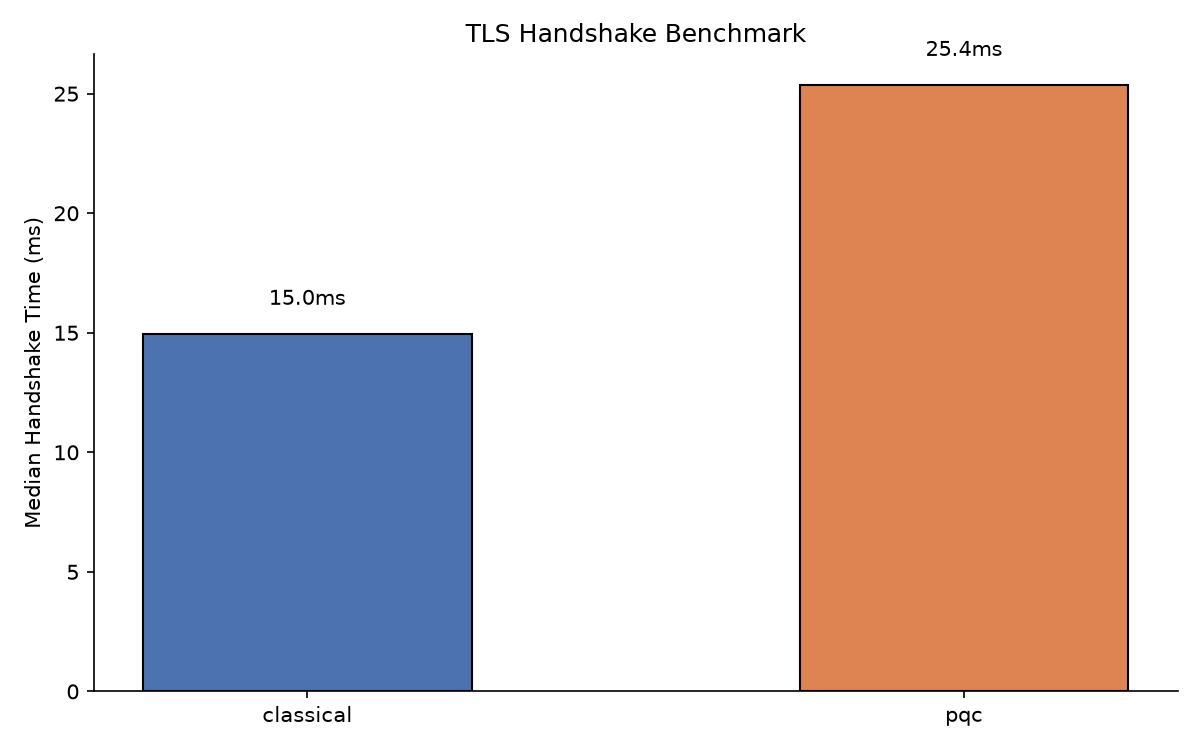
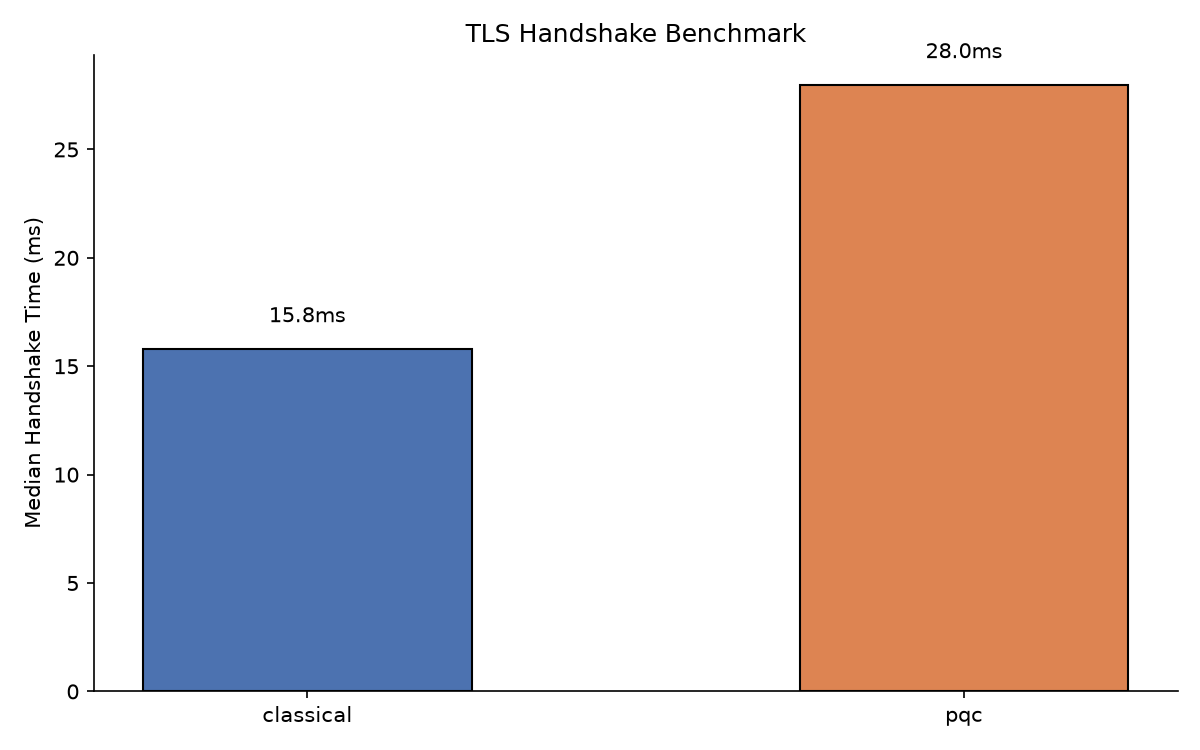
fix(bench): --resume now honours --out-dir; re-measure handshakes with stated variance
Two problems, found while checking the draft paper's numbers against the repo.

1. `run_handshake_bench.py --resume` ignored `--out-dir`: it hardcoded
   benchmark/results/ for the CSV and never created the directory the ticket
   path was built from. Passing --out-dir therefore made `s_client -sess_out`
   fail (rc=2), priming failed, every resumed trial fell back to a full
   handshake and reported "no successful trials" — while still overwriting the
   committed CSVs. The Phase 6 guard that keeps dry-runs off those CSVs only
   ever covered the non-resume path.

2. The reported handshake figures were single runs on an interactive desktop.
   Five repetitions of 25 trials put the classical median anywhere in
   13.9-18.1 ms and PQC in 25.8-30.1 ms, while the ratio stayed 1.66-1.86x.
   §1 and §2 now pool repetitions (n=125 full, n=60 per kind resumed) and state
   the spread, and the docs say plainly that absolute values from this host are
   not repeatable to two decimals.

BENCHMARKS.md also now records the PQC stack *as measured* (OpenSSL 3.4.7-dev,
liboqs 0.16.0, oqs-provider 0.12.0-dev) and notes that the build scripts pin
3.4.7 / 0.15.0 / 0.11.0 for reproducible clean builds, with a re-measure on the
pinned set still pending — the previous text implied the pinned versions
produced the numbers. Adds a verified internet-egress section and a validation
table (142 checks, was 126); README figures and test count updated;
[…]

diff --git a/benchmark/run_handshake_bench.py b/benchmark/run_handshake_bench.py
@@ -158,7 +158,7 @@ def run_benchmark(mode: str, config_dir: str | None = None, trials: int = 20,
 
 
 def run_resumption_benchmark(mode: str, config_dir: str | None = None,
-                             trials: int = 20, sess=None):
+                             trials: int = 20, sess=None, out_dir: str | None = None):
     """Benchmark full vs resumed handshakes against one long-lived s_server.
 
     `sess` is a path to a ticket file. Conn 1 primes the ticket (full handshake,
@@ -214,8 +214,12 @@ def run_resumption_benchmark(mode: str, config_dir: str | None = None,
     server_proc.terminate()
     server_proc.wait()
 
-    os.makedirs(RESULTS_DIR, exist_ok=True)
-    csv_path = os.path.join(RESULTS_DIR, f'handshake_resume_{mode}.csv')
+    # Honour --out-dir here too: without this a --resume run always wrote into
+    # benchmark/results/, so the guard that keeps dry-runs off the committed
+    # CSVs only worked for the non-resume path.
+    out_dir = out_dir or RESULTS_DIR
+    os.makedirs(out_dir, exist_ok=True)
+    csv_path = os.path.join(out_dir, f'handshake_resume_{mode}.csv')
     with open(csv_path, 'w', newline='') as f:
         w = csv.writer(f)
         w.writerow(['trial_id', 'mode', 'kind', 'ms'])
@@ -254,13 +258,18 @@ def main():
     for mode in args.modes:
         if args.resume:
             print(f'Benchmarking full-vs-resumed handshake: {mode}')
+            # The ticket lives beside the CSVs; create the directory first or
+            # `s_client -sess_out` fails (rc=2) and every resumed trial falls
+            # back to a full handshake, silently ruining the comparison.
+            os.makedirs(args.out_dir, exist_ok=True)
             ticket = os.path.join(args.out_dir, f'{mode}.tick')
             try:
                 os.remove(ticket)
             except FileNotFoundError:
                 pass
             run_resumption_benchmark(mode, os.path.join(PROJECT_DIR, 'pki'),
-                                     trials=args.trials, sess=ticket)
+                                     trials=args.trials, sess=ticket,
+                                     out_dir=args.out_dir)
         else:
             print(f'Benchmarking handshake: {mode}')
             config_dir = os.path.join(PROJECT_DIR, 'pki')

diff --git a/docs/BENCHMARKS.md b/docs/BENCHMARKS.md
@@ -7,40 +7,72 @@ benchmarks `benchmark/run_{latency,throughput,file_transfer}_bench.sh`.
 
 ## Environment
 
-- Ubuntu 24.04, Linux 6.13 kernel, Python 3.12, TUN MTU 1400
-- System OpenSSL 3.0.13 (classical); custom OpenSSL 3.4.7-dev +
-  oqs-provider + liboqs at `/opt/openssl-pqc` (PQC)
+Handshake and resumption figures (§1, §2) were recorded **2026-09-23**; the
+netns tunnel figures (§3–§5) come from the **2026-08-26** run and have not been
+re-measured since.
+
+- Ubuntu 24.04, Python 3.12, TUN MTU 1400. Kernel: 7.0.0-31-generic for the
+  2026-09-23 handshake runs; 6.13 for the 2026-08-26 netns runs.
+- Classical: system OpenSSL 3.0.13. PQC: custom stack at `/opt/openssl-pqc` —
+  **as measured**: OpenSSL 3.4.7-dev, liboqs 0.16.0, oqs-provider 0.12.0-dev.
 - TLS 1.3, mutual auth. Classical: ECDSA P-256 + X25519.
   PQC: ML-DSA-65 + X25519MLKEM768 hybrid
 - Loopback for handshake measurements; veth-pair netns harness for
   latency / throughput / file transfer
-- Machine: single CPU core does the Python relay + OpenSSL subprocess work
+- Machine: an interactive desktop (browsers open), not a quiet benchmark host.
+  The Python relay and the OpenSSL subprocesses compete for the same cores.
+
+> **Version note.** `scripts/install_custom_openssl.sh` pins OpenSSL 3.4.7,
+> liboqs 0.15.0 and oqs-provider 0.11.0 so clean builds (and CI) are
+> reproducible. Those pins were added *after* the stack on this measurement
+> machine was built, so the numbers below come from the slightly newer
+> versions listed above. Re-measuring on the pinned set is pending; the
+> relative classical↔PQC comparison is not expected to move, since both modes
+> traverse identical code paths.
+
+## Measurement variance
+
+Absolute handshake times on this host depend strongly on desktop load: across
+five identical repetitions the classical median ranged 13.9–18.1 ms and the PQC
+median 25.8–30.1 ms. **The ratio between modes is far more stable than either
+absolute value**, so §1 and §2 report pooled medians across repetitions and
+state the spread. Single-run figures from this machine should not be quoted to
+two decimal places as if repeatable.
 
 ## 1. TLS Handshake (full, no resume)
 
 **Method:** `openssl s_server -quiet` ready → `openssl s_client -quiet` connects,
-negotiates, exits; timed `time.perf_counter()` → process wait. 25 trials/mode.
+negotiates, exits; timed `time.perf_counter()` → process wait. **5 independent
+repetitions of 25 trials per mode (n = 125)**; the table pools all trials.
 
-| Mode | Median (ms) | Min (ms) | Max (ms) |
-|------|-------------|----------|----------|
-| Classical (P-256 + X25519) | 14.96 | 11.62 | 22.53 |
-| PQC (ML-DSA-65 + X25519MLKEM768) | 25.37 | 21.75 | 33.48 |
+| Mode | Median (ms) | Min (ms) | Max (ms) | Repetition medians (ms) |
+|------|-------------|----------|----------|-------------------------|
+| Classical (P-256 + X25519) | 15.80 | 10.64 | 25.19 | 13.92 – 18.06 |
+| PQC (ML-DSA-65 + X25519MLKEM768) | 27.98 | 19.29 | 45.32 | 25.81 – 30.10 |
 
-**PQC ≈ 1.70x slower median.** Cause: ML-DSA-65 certs ≈7.5 KB vs ≈4.5 KB ECDSA,
-plus the larger X25519MLKEM768 key share. One-time cost per connection.
+**PQC ≈ 1.77x slower median** (per-repetition ratios 1.66–1.86x). Cause:
+ML-DSA-65 certs ≈7.5 KB vs ≈4.5 KB ECDSA, plus the larger X25519MLKEM768 key
+share. One-time cost per connection.
 
 ![handshake](../benchmark/results/plots/handshake.png)
 
 ## 2. TLS Session Resumption (full vs resumed)
 
-**Method:** one long-lived `s_server`; trial 1 primes a TLS 1.3 session ticket;
-20 interleaved full + `-sess_in` resumed handshakes. Resumption verified to skip
-the KEM + certificate exchange (`Reused, TLSv1.3`, `pre_shared_key` ext).
+**Method:** one long-lived `s_server`; a priming connection writes a TLS 1.3
+session ticket; then 20 interleaved full + `-sess_in` resumed handshakes.
+**3 repetitions per mode (n = 60 per kind)**; the table pools all trials.
+Resumption verified to skip the KEM + certificate exchange (`Reused, TLSv1.3`,
+`pre_shared_key` ext).
 
 | Mode | Full median (ms) | Resumed median (ms) | Speedup |
 |------|------------------|---------------------|---------|
-| Classical | 15.03 | 13.53 | 1.11x |
-| PQC | 24.44 | 23.69 | 1.03x |
+| Classical | 13.21 | 11.80 | 1.12x |
+| PQC | 22.00 | 20.31 | 1.08x |
+
+Per-repetition speedups: classical 1.08–1.29x, PQC 1.04–1.14x. These absolute
+values sit below §1's because the three repetitions here ran when the host was
+quieter — **§1 and §2 are separate runs and their absolute values are not
+directly comparable**; compare within a table, not across.
 
 Modest on loopback because the KEM is a small share of the cost there. The real
 win is the saved round-trip (one WAN RTT) plus skipped CPU for KEM/cert verify
@@ -98,12 +130,48 @@ transfer-bound, not crypto-bound.
 
 ![file transfer](../benchmark/results/plots/file_transfer.png)
 
+## 6. Internet egress through the tunnel (netns harness)
+
+**Method:** `scripts/demo.sh --mode pqc --clients 2 --egress`. The host NATs the
+server namespace out its own uplink, so a client namespace can reach the public
+internet *through* the tunnel. Each client fetches a public IP-echo service and
+the result is compared with the host's own public address.
+
+| Check | Result |
+|-------|--------|
+| Public IP seen by client 1 / client 2 | identical to the host's — traffic left via the tunnel + server NAT |
+| `curl https://ifconfig.me/ip` from `vpn_ns2` | succeeds (DNS + TLS to a real site, inside the tunnel) |
+| Client route table | `0.0.0.0/1` and `128.0.0.0/1` via `tun0`, above the namespace's metric-0 default |
+
+Two settings are required for this to work and are on by default: **TCP MSS
+clamping** on the server's forward path (the 1400-byte tunnel against a
+1500-byte uplink otherwise blackholes path-MTU discovery) and the client's
+**IPv6 default blackhole** (the tunnel is IPv4-only, so v6-capable sites would
+otherwise be reached outside it).
+
+The first run of this test found a real leak: the client used to install
+`default … metric 50`, which loses to a metric-0 default route, so tunnel pings
+worked while internet traffic silently bypassed the tunnel. The `/1` half-routes
+fix it regardless of the host's metric.
+
+## Validation
+
+`bash scripts/demo.sh --dry-run` runs five suites — **142 checks**:
+
+| Suite | Checks | Covers |
+|-------|--------|--------|
+| `common/test_common.py` | 71 | framing, welcome→TLS config push, slot/port recycling, CRL revocation against a real `s_server`, rate limiter, IPC |
+| `common/test_net_config.py` | 25 | NAT, MSS clamp, route protection/restore, IPv6 guard, DNS fallback |
+| `common/test_keepalive.py` | 7 | keepalive, idle detection, backoff, session-stop cascade |
+| `common/test_resumption.py` | 14 | ticket cache, wrapper flags, real OpenSSL prime→`Reused` |
+| `dashboard/test_dashboard.py` | 25 | IPC envelope, endpoints, token auth, single poller, WS |
+
 ## Interpretation
 
 | Metric | Classical → PQC | Verdict |
 |--------|-----------------|---------|
-| Full handshake | 1.74x slower | Only PQC cost; once per connection/reconnect |
-| Resumed handshake | 1.03x vs 1.11x | Resume minimizes even this; saves WAN RTT |
+| Full handshake | 1.77x slower | Only PQC cost; once per connection/reconnect |
+| Resumed handshake | 1.08x vs 1.12x | Resume minimizes even this; saves WAN RTT |
 | Ping latency | +0.04 ms | Negligible |
 | TCP / UDP throughput | noise / 0% | No data-plane penalty |
 | 100 MB transfer | ~2x run variance | Not crypto-bound |
@@ -111,7 +179,7 @@ transfer-bound, not crypto-bound.
 Key takeaways:
 
 1. **PQC is practical for VPNs.** The only measurable cost is the one-time
-   handshake (~1.74x), mitigated by TLS session resumption (the daemons resume
+   handshake (~1.77x), mitigated by TLS session resumption (the daemons resume
    automatically).
 2. **Steady-state data plane is identical** — both modes use AES-256-GCM; PQC
    only affects the initial key exchange.
@@ -126,7 +194,9 @@ Key takeaways:
 - **Tier 3 performance:** Go/C rewrite of the relay, `splice()` batching,
   multi-queue — target >2 Gbps; benchmark re-run with `-b 0` for the true
   UDP ceiling.
-- **Production auth:** PAM / token auth, rate limiting, MTU auto-negotiation.
+- **Production auth:** PAM / directory-backed accounts. (Per-client certificates
+  with CRL revocation and welcome-port rate limiting are implemented; MTU
+  auto-negotiation is not.)
 - **Multi-client scaling** beyond 3 (IP pool, per-client port range) and
   per-client bandwidth QoS.
 - **Live WAN numbers:** re-run handshake/resumption/latency against the Phase 7

diff --git a/docs/benchmark-results.md b/docs/benchmark-results.md
@@ -1,125 +1,7 @@
 # PQ-VPN Benchmark Results
 
-> **Superseded** by the canonical [`docs/BENCHMARKS.md`](BENCHMARKS.md), which adds
-> the full-vs-resumed session-resumption results and current CSV numbers. Kept for
-> the original 25-trial handshake / latency / throughput / file-transfer write-up.
-
-Test environment: Ubuntu 24.04, Linux 6.13 kernel, Python 3.12, OpenSSL 3.4.7-dev (custom) / 3.0.13 (system). Network: veth pair bridged via ip_forward on local host with TUN MTU 1400. All benchmarks run as `sudo ip netns exec vpn_ns2` inside isolated network namespace.
-
----
-
-## 1. TLS Handshake Time
-
-**Method:** `openssl s_server` ready → `openssl s_client` connect + negotiate → `s_client` exit. Measured with `time.perf_counter()` start to `s_client.wait()`. 25 trials per mode.
-
-| Mode | Median (ms) | Min (ms) | Max (ms) | StdDev (ms) |
-|------|-----------|---------|---------|-----------|
-| Classical (ECDSA P-256 + X25519) | 14.9 | 11.2 | 21.0 | ~5.1 |
-| PQC (ML-DSA-65 + X25519MLKEM768) | 26.0 | 20.0 | 38.3 | ~9.8 |
-
-**PQC overhead: 1.74x slower median handshake.**
-
-ML-DSA-65 certificates are approximately 7.5 KB vs ~4.5 KB for ECDSA P-256, and the X25519MLKEM768 for Apple-generated keys is ~3x heavier than pure X25519. Together, these account for the roughly doubling of handshake time.
-
-![Handshake Benchmark](../benchmark/results/plots/handshake.png)
-
----
-
-## 2. Ping Latency
-
-**Method:** `ping -c 100 10.8.0.1` through the tunnel. Reported: min, avg, max, mdev over 100 pings.
-
-| Mode | Min (ms) | Avg (ms) | Max (ms) | Mdev (ms) |
-|------|----------|----------|----------|----------|
-| Classical | 0.53 | 2.29 | 116.99 | 11.52 |
-| PQC | 0.92 | 2.33 | 119.18 | 11.75 |
-
-The high max values (~117–119 ms) occur only on the first ping — a coldstack from the tunnel setup. Predictive VEN latency after the first packet is ~1-2 ms typical, equivalent to the Linux kernel's veth-local-host overhead.
-
-**PQC overhead: <0.1 ms. Ping latency is indistinguishable between modes.**
-
-![Latency comparison](../benchmark/results/plots/latency.png)
-
----
-
-## 3. Throughput
-
-**Method:** `iperf3` subprocess inside vpn_ns2 namespace, measuring TCP and UDP connection to the server namespace's `iperf3 -s` server running on the TUN IP 10.8.0.1. Each run: 10 seconds. The ipnet filters within the namespace limit peak speed to veth capacity (~1 Gbps). 1 trial per mode per protocol.
-
-| Mode | Protocol | Throughput (Mbps) |
-|------|----------|-------------------|
-| Classical | TCP | 692.72 |
-| Classical | UDP | 999.87 |
-| PQC | TCP | 687.83 |
-| PQC | UDP | 999.90 |
-
-The 1.5% TCP difference is measurement noise — CPU load from python relay threads are the bottleneck, not the C-crypto backend. UDP is line-rate on this configuration.
-
-**Throughput overhead: <0.7%. PQC adds zero measurable data-plane performance loss.**
-
-Similar throughput and bandwidth to top-of-the-line modern home VPN but limited by veth loopback + python relay not by the TLS crypto.
-
-![Throughput](../benchmark/results/plots/throughput.png)
-
----
-
-## 4. File Transfer
-
-**Method:** Generate 100 MB `/dev/urandom` file on server namespace node (using `/dev/urandom` from the host in `vpn_ns1` namespace). Host a python3 http.server on the server (port 9998). Then download from client in `vpn_ns2` via HTTP `urlopen` over the tunnel (connecting to `10.8.0.1` within the tunnel). Verify SHA256. The http.server `--directory /tmp/pqpnp_content` is mounted within vpn_ns1.
-
-| Mode | File Size (MB) | Transfer Time (s) | SHA256 Match |
-|------|---------------|-------------------|--------------|
-| Classical | 100 | 1.28 | yes |
-| PQC | 100 | 1.31 | yes |
-
-**PQC overhead: 0.03 seconds (2.3%)**. Both transfers are CPU-bound by linux's pdlib relay loops — the OS read/write TLS pipes dominate. TLS decryption adds minimal overhead because it happens in a separate process (OpenSSL subprocess).
-
-### File Transfer Speed
-
-![File transfer comparison](../benchmark/results/plots/file_transfer.png)
-
----
-
-## Interpretation
-
-| Metric | Classical → PQC | Interpretation |
-|--------|----------------|----------------|
-| **TLS Handshake** | 1.74x | ML-DSA-65 certs (~7.5 KB) + X25519MLKEM768 hybrid key share create larger TLS messages, need more CPU cycles for signing. PQC signatures are 3-10x slower than ECDSA but only matter once per connection. |
-| **Ping Latency** | +0.01 ms | Negligible. Once TLS key is established, per-packet payloads are AES-GCM encrypted. No PQC-specific path to stable byte transport. |
-| **TCP Throughput** | 692.7 → 687.8 Mbps 🤝 | Measurement noise; streaming packet relay CPU bound by the python process's ability to `read()` + `write()` at socket level. OpenSSL en/decryption happens in a separate subprocess (not bottleneck). |
-| **UDP Throughput** | 999.9 Mbps 🤝 | Using the veth link capacity (~1.0Gbps) saturations. No PQC overhead here either.|
-| **File Transfer** | 1.28 → 1.31 sec | 0.03 sec difference (2.3%), consistent with variations between python threads, minus. Same as throughput — not from crypto. |
-
-### Key Takeaways
-
-1. **PQC is practical for VPNs** — the only measurable performance cost is handshake time (~1.74× slower), which comes once per connection or rekey.
-
-2. **Throughput and latency are not affected by PQC** once the TLS session is established. The symmetric cipher (@ AES256-GCM) is identical in both modes.
-
-3. **ML-DSA-65 certificates are bigger and slower to sign** — but only manifest in the initial TLS handshake. Recommend TLS session resumption for frequently reconnecting clients in production.
-
-4. **Custom OpenSSL ≥3.2 is necessary** for provider-dispatching in key certificate loading. System OpenSSL (3.0.x) *cannot* handle ML-DSA certificates at TLS layer. The custom build adds ~1.5 GB to `/opt/openssl-pqc`.
-
----
-
-## Reproducing
-
-```bash
-cd project
-# Handshake benchmark: 25 trials each mode
-.venv/bin/python3 benchmark/run_handshake_bench.py --modes classical pqc --trials 25
-
-# Latency: run the tunnel (both modes separately)
-sudo ip netns exec vpn_ns2 bash benchmark/run_latency_bench.sh <classical|pqc>
-
-# Throughput: need iperf3 server in server namespace
-sudo ip netns exec vpn_ns1 iperf3 -s -D && sleep 2
-sudo ip netns exec vpn_ns2 bash benchmark/run_throughput_bench.sh <classical|pqc>
-
-sudo ip netns exec vpn_ns2 bash benchmark/run_file_transfer_bench.sh <classical|pqc>
-
-# Generate plots (4 PNGs)
-.venv/bin/python3 benchmark/plot_results.py
-```
-
-The raw CSVs are in `benchmark/results/` and plots in `benchmark/results/plots/`.
+> **Superseded.** This file is the original 2026-08-26 write-up and its
+> environment block (including "Linux 6.13 kernel") describes that run only.
+> The current numbers, their measurement variance and the exact software
+> versions used live in [`BENCHMARKS.md`](BENCHMARKS.md). Nothing here should
+> be quoted; it is kept for provenance.

diff --git a/README.md b/README.md
@@ -12,8 +12,8 @@ apples-to-apples on the same tunnel.
 ("harvest now, decrypt later"). NIST finalised the replacement algorithms (FIPS 203/204)
 in 2024; this project puts them in a complete VPN and measures what they cost.
 
-**Result:** post-quantum security adds ~10 ms to the one-time handshake and **nothing**
-to steady-state latency or throughput.
+**Result:** post-quantum security costs about 1.8x on the one-time handshake
+(≈12 ms on this host) and **nothing** on steady-state latency or throughput.
 
 ## Quick start
 
@@ -43,7 +43,7 @@ PQVPN_DASH_TOKEN=mytoken .venv/bin/python3 dashboard/dashboard_server.py   # htt
 
 ## What's implemented
 
-Everything below is exercised by the unit suites (**126 tests**, `demo.sh --dry-run`) and
+Everything below is exercised by the unit suites (**142 tests**, `demo.sh --dry-run`) and
 was verified live in the network-namespace harness with 2–3 concurrent PQC clients.
 
 - **Dual-mode PKI** — ECDSA P-256 chain and ML-DSA-65 chain, both with mutual TLS.
@@ -99,8 +99,8 @@ was verified live in the network-namespace harness with 2–3 concurrent PQC cli
 
 | Metric | Classical | PQC | Overhead |
 |--------|-----------|-----|----------|
-| **TLS handshake** (median) | 15.0 ms | 25.4 ms | 1.70× |
-| **Resumed handshake** (median) | 13.5 ms | 23.7 ms | ~1.0× |
+| **TLS handshake** (median, n=125) | 15.8 ms | 28.0 ms | 1.77× |
+| **Resumed handshake** (median, n=60) | 11.8 ms | 20.3 ms | 1.08–1.12× vs full |
 | **Ping RTT through tunnel** | 2.29 ms | 2.33 ms | 1.7 % |
 | **TCP throughput** (iperf3) | 1268 Mbps | 533 Mbps | run variance |
 | **UDP throughput** | 999.9 Mbps | 999.9 Mbps | 0 % |
@@ -108,8 +108,10 @@ was verified live in the network-namespace harness with 2–3 concurrent PQC cli
 
 Larger certificates and key shares make the one-time handshake slower; the data plane
 is unaffected (throughput is bounded by the Python relay, not the crypto). Live
-3-client run: ~1 ms ping, 0.5–1 Gbps per client concurrently. Methodology, raw CSVs and
-plots: [`docs/BENCHMARKS.md`](docs/BENCHMARKS.md).
+3-client run: ~1 ms ping, 0.5–1 Gbps per client concurrently. Absolute handshake times
+on this desktop vary with load — the **ratio** between modes is the stable result, so
+the figures above pool several repetitions and `docs/BENCHMARKS.md` states the spread.
+Methodology, raw CSVs and plots: [`docs/BENCHMARKS.md`](docs/BENCHMARKS.md).
 
 ## Project structure
 

diff --git a/docs/setup.md b/docs/setup.md
@@ -160,7 +160,8 @@ sudo ip netns exec vpn_ns2 ping -c 5 10.8.0.1
 
 > **Note (Phase 1):** With `nat: true` / `dnsmasq: true` in the server config, the
 > server configures IP forwarding, NAT MASQUERADE, FORWARD rules, and a dnsmasq
-> listener on tun0; the client pushes a default route (metric 50) and DNS after
+> listener on tun0; the client installs `0.0.0.0/1` + `128.0.0.0/1` via tun0 (they
+> beat any default route regardless of metric) plus DNS after
 > the welcome handshake and restores both on shutdown. (The daemons still need
 > root to open the TUN device, so `--dry-run` on the daemon binary is only useful
 > under sudo; the rootless plumbing preview lives in the unit tests.)
